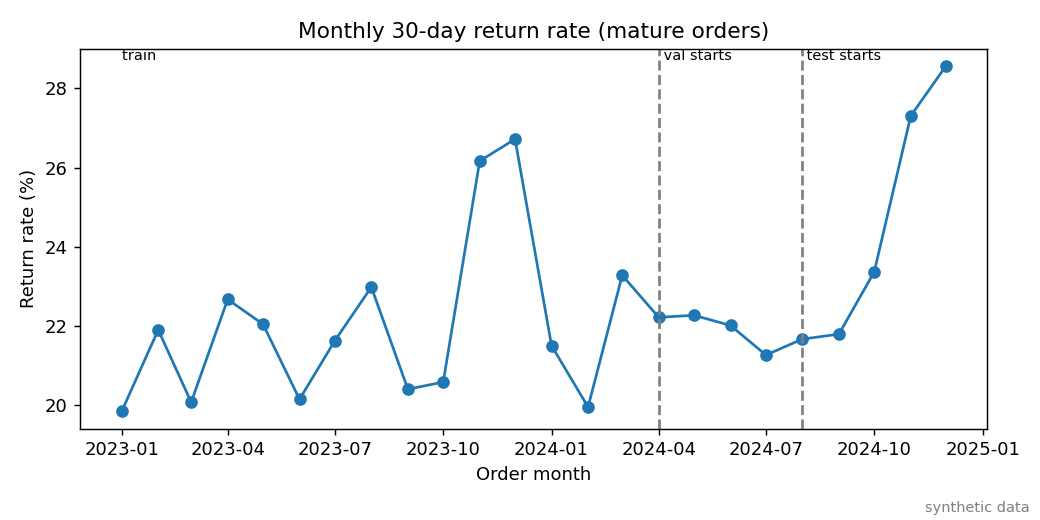
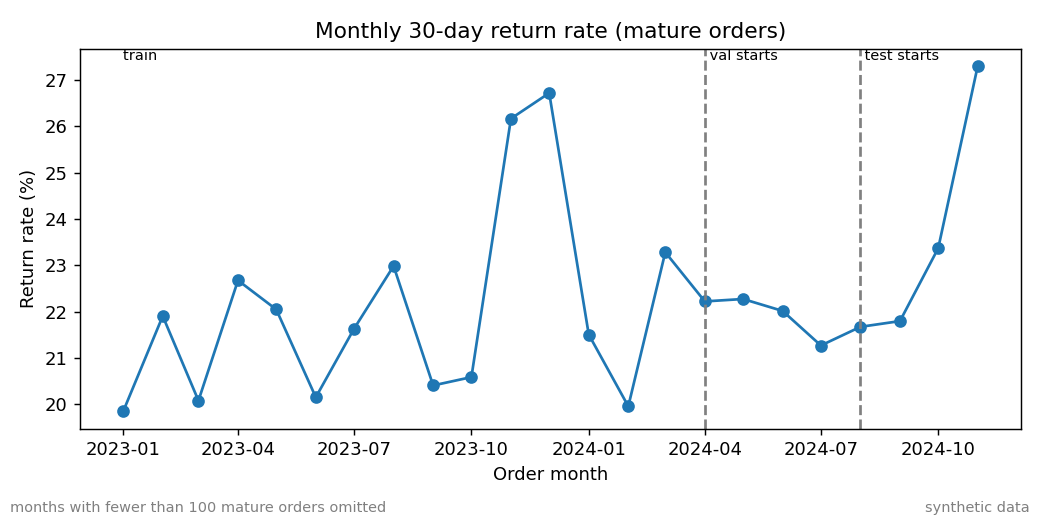
Omit partial months from monthly return rate chart

diff --git a/ml/report.py b/ml/report.py
@@ -25,6 +25,7 @@ from ml.train import MODEL_DIR, TEST_START, VAL_START  # noqa: E402
 
 FIG_DIR = Path(__file__).resolve().parent.parent / "docs" / "figures"
 NOTE = "synthetic data"
+MIN_MONTH_ORDERS = 100  # months with fewer mature orders are too noisy to plot
 
 
 def _finish(fig, ax, title: str, xlabel: str, ylabel: str, name: str) -> Path:
@@ -42,13 +43,16 @@ def _finish(fig, ax, title: str, xlabel: str, ylabel: str, name: str) -> Path:
 
 def monthly_return_rate(mature: pd.DataFrame) -> Path:
     m = mature.assign(month=pd.to_datetime(mature.order_date).dt.to_period("M").dt.to_timestamp())
-    rate = m.groupby("month").returned_30d.mean()
+    g = m.groupby("month").returned_30d
+    rate = g.mean()[g.size() >= MIN_MONTH_ORDERS]
     fig, ax = plt.subplots(figsize=(8, 4))
     ax.plot(rate.index, rate.values * 100, marker="o")
     for label, start in (("val starts", VAL_START), ("test starts", TEST_START)):
         ax.axvline(pd.Timestamp(start), color="gray", linestyle="--")
         ax.text(pd.Timestamp(start), ax.get_ylim()[1], f" {label}", va="top", fontsize=8)
     ax.text(rate.index[0], ax.get_ylim()[1], "train ", va="top", fontsize=8)
+    fig.text(0.01, 0.01, f"months with fewer than {MIN_MONTH_ORDERS} mature orders omitted", ha="left", va="bottom",
+             fontsize=8, color="gray")
     return _finish(fig, ax, "Monthly 30-day return rate (mature orders)", "Order month", "Return rate (%)",
                    "monthly_return_rate.png")
 
